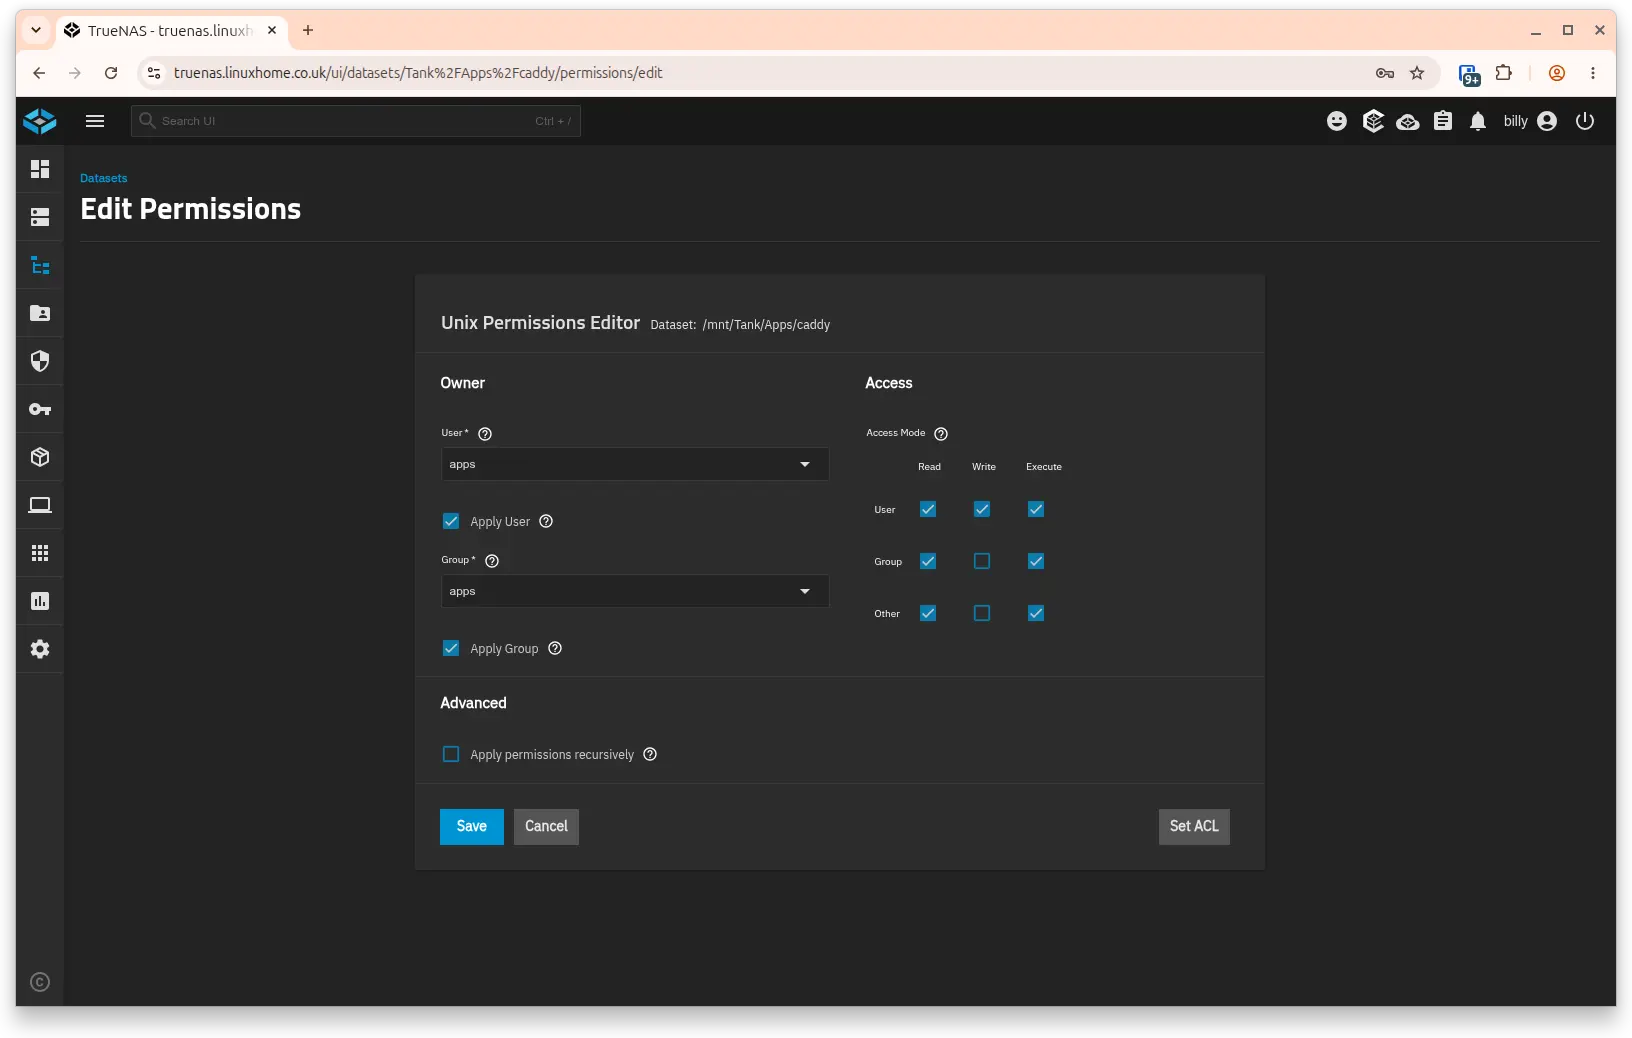
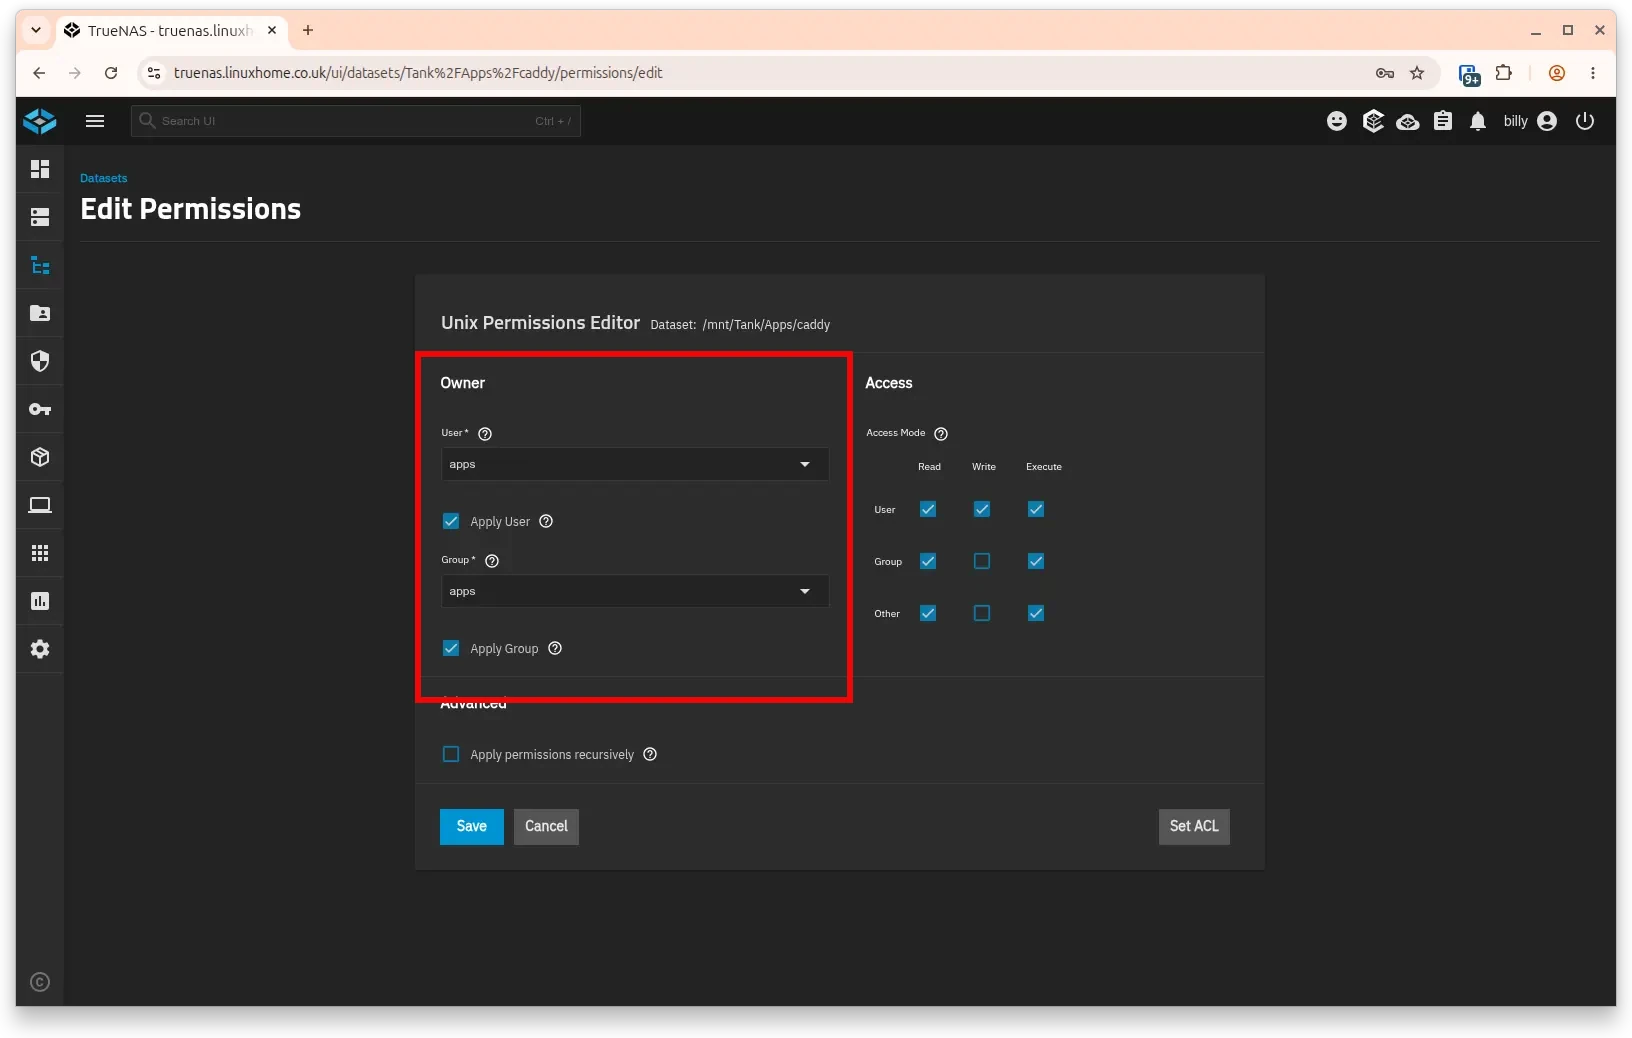
Added a page for Discharge

Changed region(s): [[0.25, 0.3391, 0.5312, 0.6782]]

diff --git a/_posts/2026-10-17-Discharge-2026.md b/_posts/2026-10-17-Discharge-2026.md
@@ -1,0 +1,86 @@
+---
+title: Discharge
+date: 2026-10-17
+categories: [Gigs and Socials]
+drafts: false
+tags: [gigs and socials]     # TAG names should always be lowercase
+image:
+   path: ../assets/img/posts/2026/2026-10-17-Discharge-2026/Discharge.webp
+---
+
+The last time I seen Discharge play, was at [Henry's Cellar Bar](https://henryscellarbar.co.uk/2022/07/24/the-future-of-henrys-as-a-venueor-lack-thereof/) on the 28th September 2018, with my mates [Rus](https://www.facebook.com/russel.redpath), [Gavin](https://www.facebook.com/gavin.archibald.12), [Mark](https://www.facebook.com/mark.dawson.545) and [Chris](https://www.facebook.com/profile.php?id=100009257857124), them having to move the gig from 8th April 2018, after some shenanigans with by the Barra’s venue allegedly.
+
+I don't think I've ever been that close to a live band, If you happened to have been there, you'll know what I'm taking about. Thankfully someone who was there, posted a video of the night so feel free to have a look yourself.
+
+Tonight, the band were pretty damn good, although in my humble opinion, the better gig was at Henry's in 2018 as it was more up close and personal (more punk? Is that's a thing?).
+
+{% include embed/youtube.html id='5nt_KksQ-3cYG0ue' %}
+
+## The Venue
+
+Venue - [La Belle Angel](https://la-belleangele.com/)
+
+## The Bands
+
+### Subvision UK
+
+Unfortunately we missed these guys, deciding to have another beer at [Bannermans](https://www.bannermanslive.co.uk/) and a catchup with friends, no doubt I'll see these guys at some point [Subvision UK](https://www.facebook.com/subvision.ok.1)
+
+### Face UP
+
+We did manage to see [Face UP](https://www.facebook.com/faceup.uk) who sounded pretty good.
+
+![Face Up](../assets/img/posts/2026/2026-10-17-Discharge-2026/Face_UP_1.webp)
+
+![Face Up](../assets/img/posts/2026/2026-10-17-Discharge-2026/Face_UP_2.webp)
+
+### Discharge
+
+As you would expect, Discharge, the main band of the night were exellent as always.
+
+![Discharge](../assets/img/posts/2026/2026-10-17-Discharge-2026/Discharge_1.webp)_Discharge_
+
+![Discharge](../assets/img/posts/2026/2026-10-17-Discharge-2026/Discharge_4.webp)_Discharge_
+
+![Discharge](../assets/img/posts/2026/2026-10-17-Discharge-2026/Discharge_6.webp)_Discharge_
+
+### Henry's Cellar Bar? What happened?
+
+Henry's Cellar Bar in Edinburgh was most recently managed and owned in its final years by Claire Grandemange (who took over around 2016 to save the venue after it changed hands multiple times), with earlier iterations managed/run by figures like DJ Kulu in the mid-to-late 1990s when it operated as a jazz club
+
+- Here's a statement from their website, I'm putting it here, because as we all know, websites disappear all the time on the internet, and it's good to have a record somewhere. There's old website is [link here](https://henryscellarbar.co.uk/)
+- Here's an old Gofundme page for the [staff and the venue](https://www.gofundme.com/f/henrys).
+- Recent Ownership: Claire Grandemange ran the venue for its final years up until its permanent closure in 2022 following a legal dispute. It operated under the company/name associated with Good Kunst Ltd / management team.
+- Earlier History: In the mid-to-late 1990s (when it was known as Henry's Jazz Cellar Bar), it was run by DJ Kulu.
+
+#### Posted July 24th 2022
+
+> I realise it’s been a very long time since we last posted, but there was not much we could publicly share… although as of this week there are obvious changes people have started to notice, and it looks like what used to be Henry’s will reopen soon as a completely different thing, and some folks have been talking and sharing their concerns online, so I guess it’s time to try to explain a little bit.
+>
+> In 2020 we found ourselves in the middle of a very convoluted situation that threatened our future, and although we’d been hoping to come back one day somehow, in the last few days it’s been made a lot clearer to everyone that it isn’t gonna be the case – not any time soon anyway, or at least not in the same location!
+>
+> And I’m not blaming Covid, if anything Covid helped us keep the faith a little while longer, the timing was “perfect” for us, if you can call that perfect; all venues had to shut down anyway, so it wasn’t just us, and there was help, and we could use that time to sort out issues and get ready to reopen.
+>
+> In the end we had to give up just a few months ago, we can’t discuss all the ins and outs here, and unfortunately there’s nothing anyone can do at this point to help, we had all the help we could get including funding, support from the Music Venue Trust, and a couple of good solicitors on our side, but it was a really complicated legal situation involving 5 different parties over the course of 2 years (special thanks to Nicolas McBride from BTO Solicitors who was the one representing us), which may still end up in court one day – or not.
+>
+> In March we ended up having to clear the venue completely, and although we’d tried to keep staff on as long as there was still some sort of hope, we had to make everyone redundant, with the last employee finishing last month (whilst we were still sorting stuff out that’s now in storage – we’re probably gonna have to try and sell most of it soon too).
+>
+> The spirit of Henry’s (and the spirit of Good Cunts) may come back in another form or location one day (we own the trademark after all, for real, so at least no chancers can try and cash in on the name), but in the meantime that’s what’s about to replace us: karaoke apparently. And bland colours. I’d expect a lot of slickness too, the exact opposite of what Henry’s has always stood for. What a sad statement.
+>
+> I’d like to thank everyone for their support over the 17 years I’ve been involved with Henry’s (especially the last few since 2016 when I finally got to run the whole venue including the bar myself), and everyone who supported Henry’s even before then, since its beginnings as a music venue 30 years ago, but that’s us for now.
+>
+>And since I own the rights to the name Henry’s Cellar Bar I’m also hoping to use the website to start some sort of archive / story of the crazy Henry’s years we’ve had, whenever I can get my shit together whilst in the middle of trying to sort other stuff and looking for work!
+>
+> Anyway, to quote a heartfelt post from our journalist friend and long-time supporter Neil Cooper from earlier today:”Henry’s was a very special kind of mess.”
+>
+> Thanks everyone, and watch this space if you want to hear more…
+>
+> Claire
+
+## References
+
+- Discharge - [Website](https://thenightmarecontinues.yolasite.com/tour-dates.php)
+- Discharge - [Wikipedia Page](https://en.wikipedia.org/wiki/Discharge_(band))
+- Henry's Cellar Bar - [Website](https://henryscellarbar.co.uk/)
+- The Barra's - [Wikipedia](https://en.wikipedia.org/wiki/The_Barras)
+- Discharge - A [Negative Insight Story](https://www.negativeinsight.com/niblog/discharge-the-untold-story-behind-their-iconic-minimalistic-aesthetic)

diff --git a/_drafts/2026-10-03-Caddy-Reverse-Proxy-for-Apps-on-TrueNAS-Scale.md b/_drafts/2026-10-03-Caddy-Reverse-Proxy-for-Apps-on-TrueNAS-Scale.md
@@ -71,13 +71,62 @@ Configure your `Caddyfile` to use the Cloudflare DNS challenge globally or per s
 
 ```yaml
 {
-    # Global option to use Cloudflare for ACME DNS-01 validation
-    acme_dns cloudflare {env.CLOUDFLARE_API_TOKEN}
+  # Global Options
+  # ACME DNS configuration using Cloudflare
+
+  # acme_dns cloudflare {env.CLOUDFLARE_API_TOKEN}
+  email {env.CLOUDFLARE_EMAIL}
 }
 
-example.com {
-    reverse_proxy 192.168.1.100:8080
+# Snippet for internal-only access
+(internal_only) {
+  @not_internal not remote_ip 192.168.0.0/16 10.0.0.0/8 172.16.0.0/12
+  respond @not_internal "Access Denies" 403
 }
+
+# Snippet for common settings
+(common) {
+  encode zstd gzip
+  header {
+    # Enable XSS protection
+    X-XSS-Protection "1; mode=block"
+    # Security headers enable HSTS
+    Strict-Transport-Security "max-age=31536000; includeSubDomains; preload"
+    # Prevent MIME type sniffing
+    X-Content-Type-Options nosniff
+    # Prevent clickjacking
+    X-Frame-Options DENY
+    Referrer-Policy no-referrer-when-downgrade
+  }
+}
+
+# Site block for root and all subdomains
+linuxhome.co.uk, *.linuxhome.co.uk {
+  import common
+
+  # Required for Wildcard certs via Cloudflare DNS
+  tls {
+    dns cloudflare {env.CLOUDFLARE_API_TOKEN}
+  }
+
+  # Logging - helps with debugging
+  log {
+    output file /var/log/caddy/access.log
+  }
+
+  # Composetoolbox
+  @composetoolbox host compose.linuxhome.co.uk
+  handle @composetoolbox {
+    import internal_only
+    reverse_proxy composetoolbox:3000
+  }
+
+  # Default fallback
+  handle {
+    respond "404 - Service not found" 404
+  }
+}
+
 ```
 
 ## Deploy via YAML (Recommended)
@@ -95,6 +144,8 @@ services:
   caddy:
     image: caddybuilds/caddy-cloudflare:latest
     container_name: caddy
+    environment:
+      - CLOUDFLARE_API_TOKEN=cfut_JSIGBMxjAJMm1R6RGZWambxScJr7aqEcdyBF3txF947763ef
     restart: unless-stopped
     user: "568:568"
     cap_add:
@@ -111,10 +162,14 @@ services:
       - /mnt/Tank/Apps/caddy/Caddyfile:/etc/caddy/Caddyfile  
       - /mnt/Tank/Apps/caddy/data:/data
       - /mnt/Tank/Apps/caddy/config:/config
+      # Caddy log files
+      - /mnt/Tank/Apps/caddy/logs:/var/log/caddy
     networks:
-      - caddy_net
+      - caddy_proxy
+
 networks:
-  caddy_net:
+  caddy_proxy:
+    name: caddy_proxy
     driver: bridge
 ```
 

diff --git a/_posts/2025-11-27-Installing-Caddy-Docker-Container.md b/_posts/2025-11-27-Installing-Caddy-Docker-Container.md
@@ -95,7 +95,7 @@ CLOUDFLARE_API_TOKEN=<Your Cloudflare API Token>
 nano docker-compose.yml
 ```
 
-Below is thmy docker-compose.yml file, do feel free to change it to suite your needs. The network stanza is specific to my needs, so I've commented them out.
+Below is my docker-compose.yml file, do feel free to change it to suite your needs. The network stanza is specific to my needs, so I've commented them out.
 
 ```yaml
 services:
